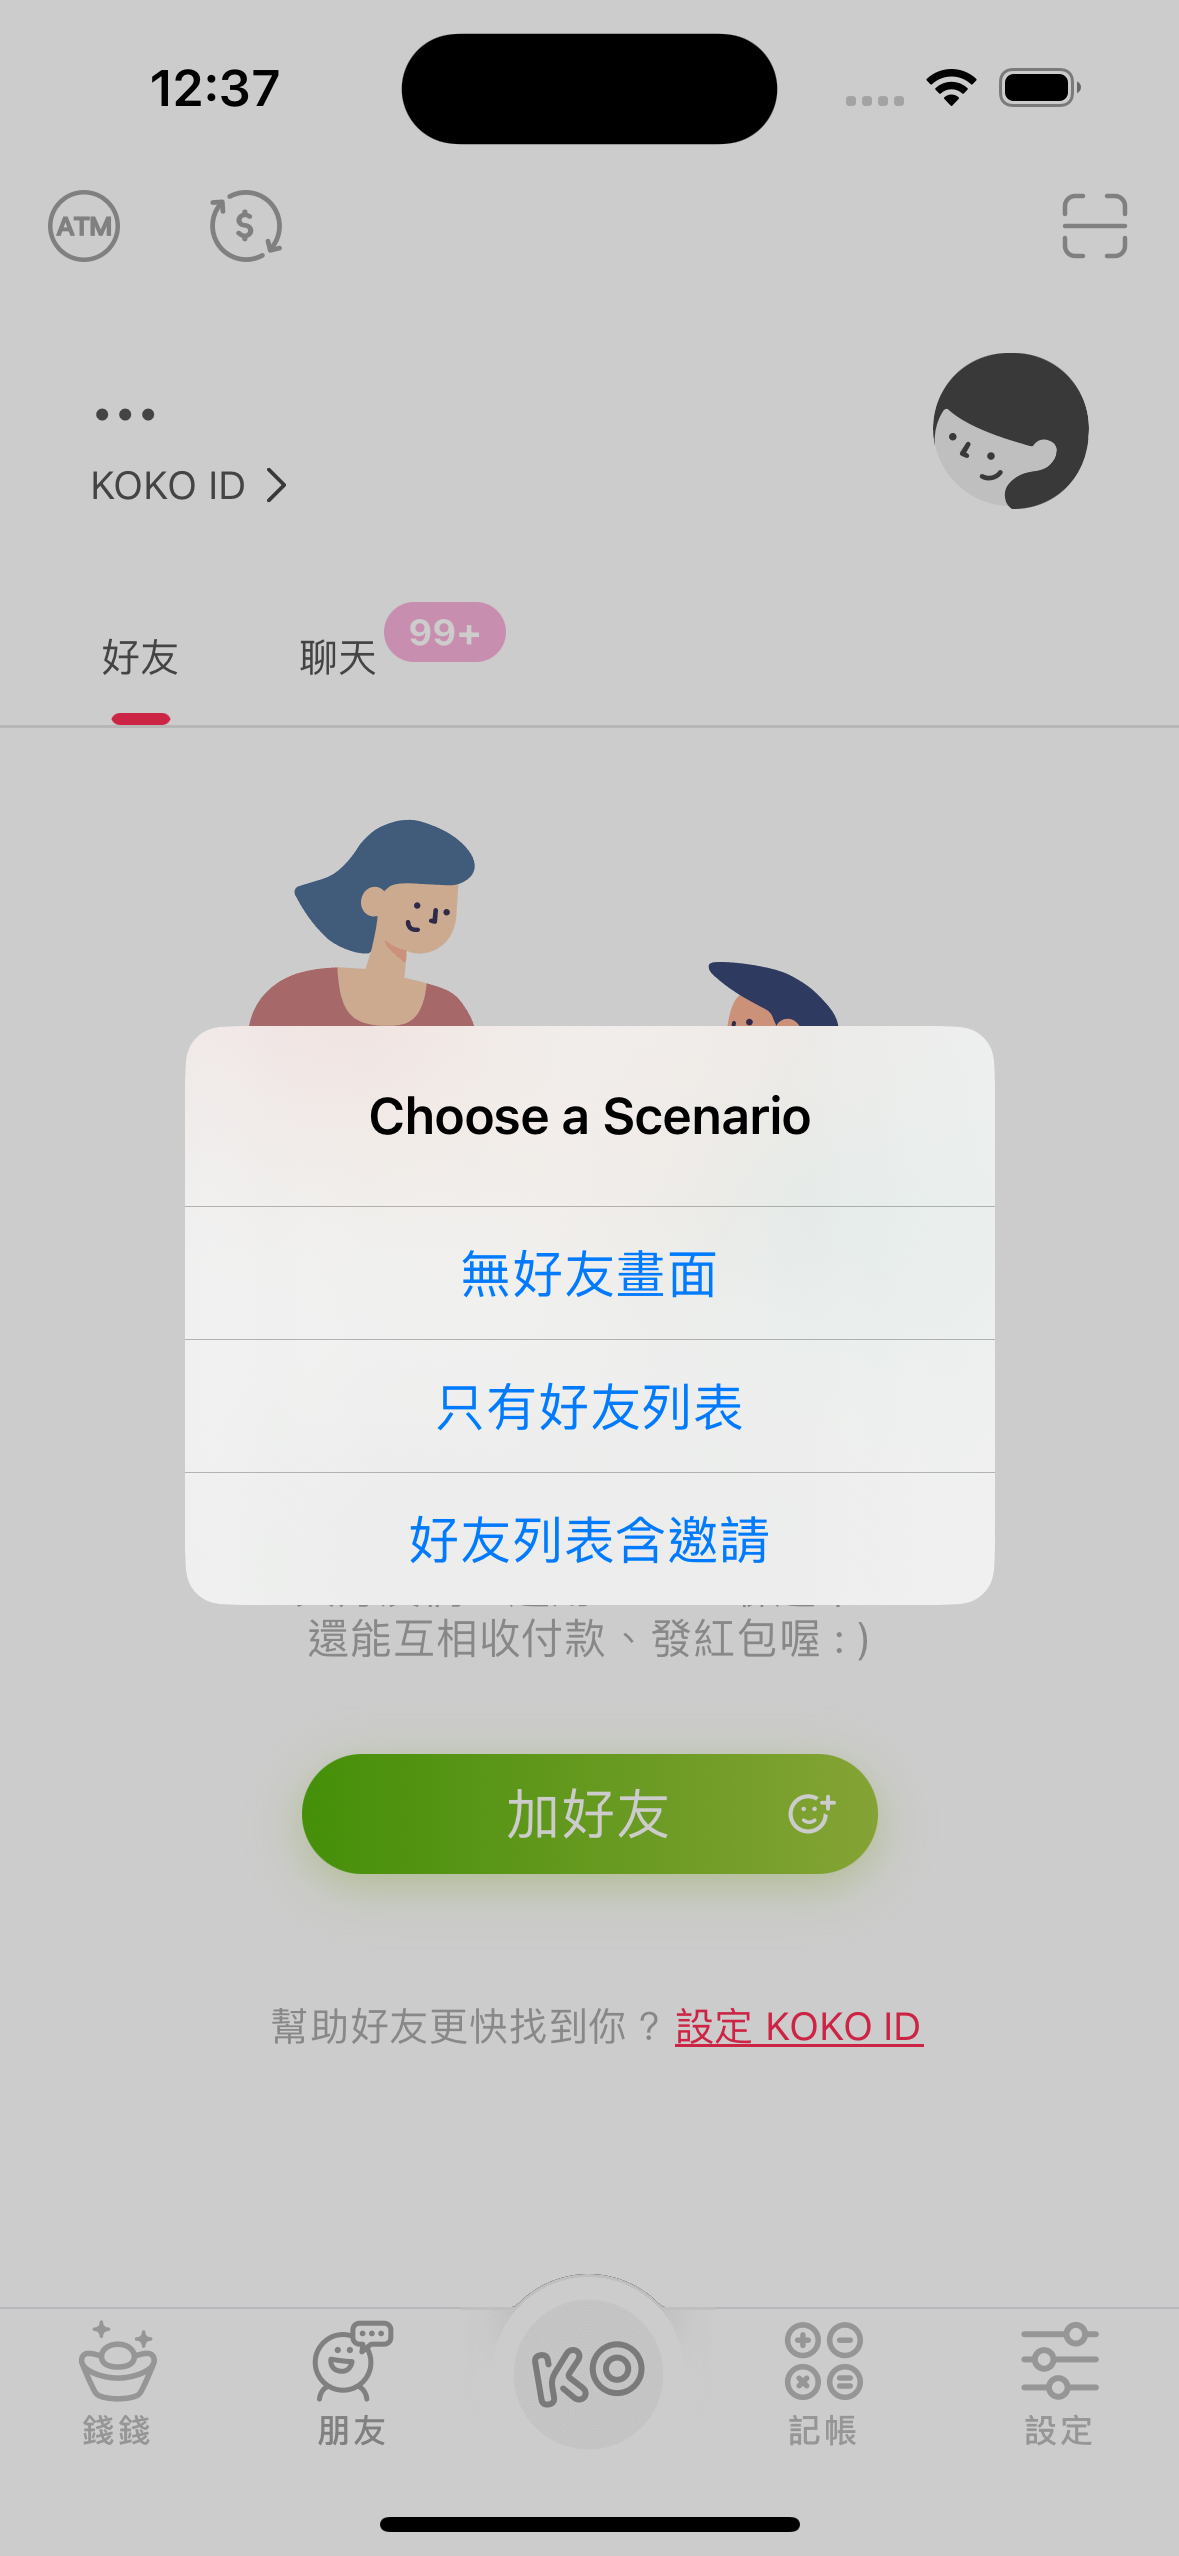
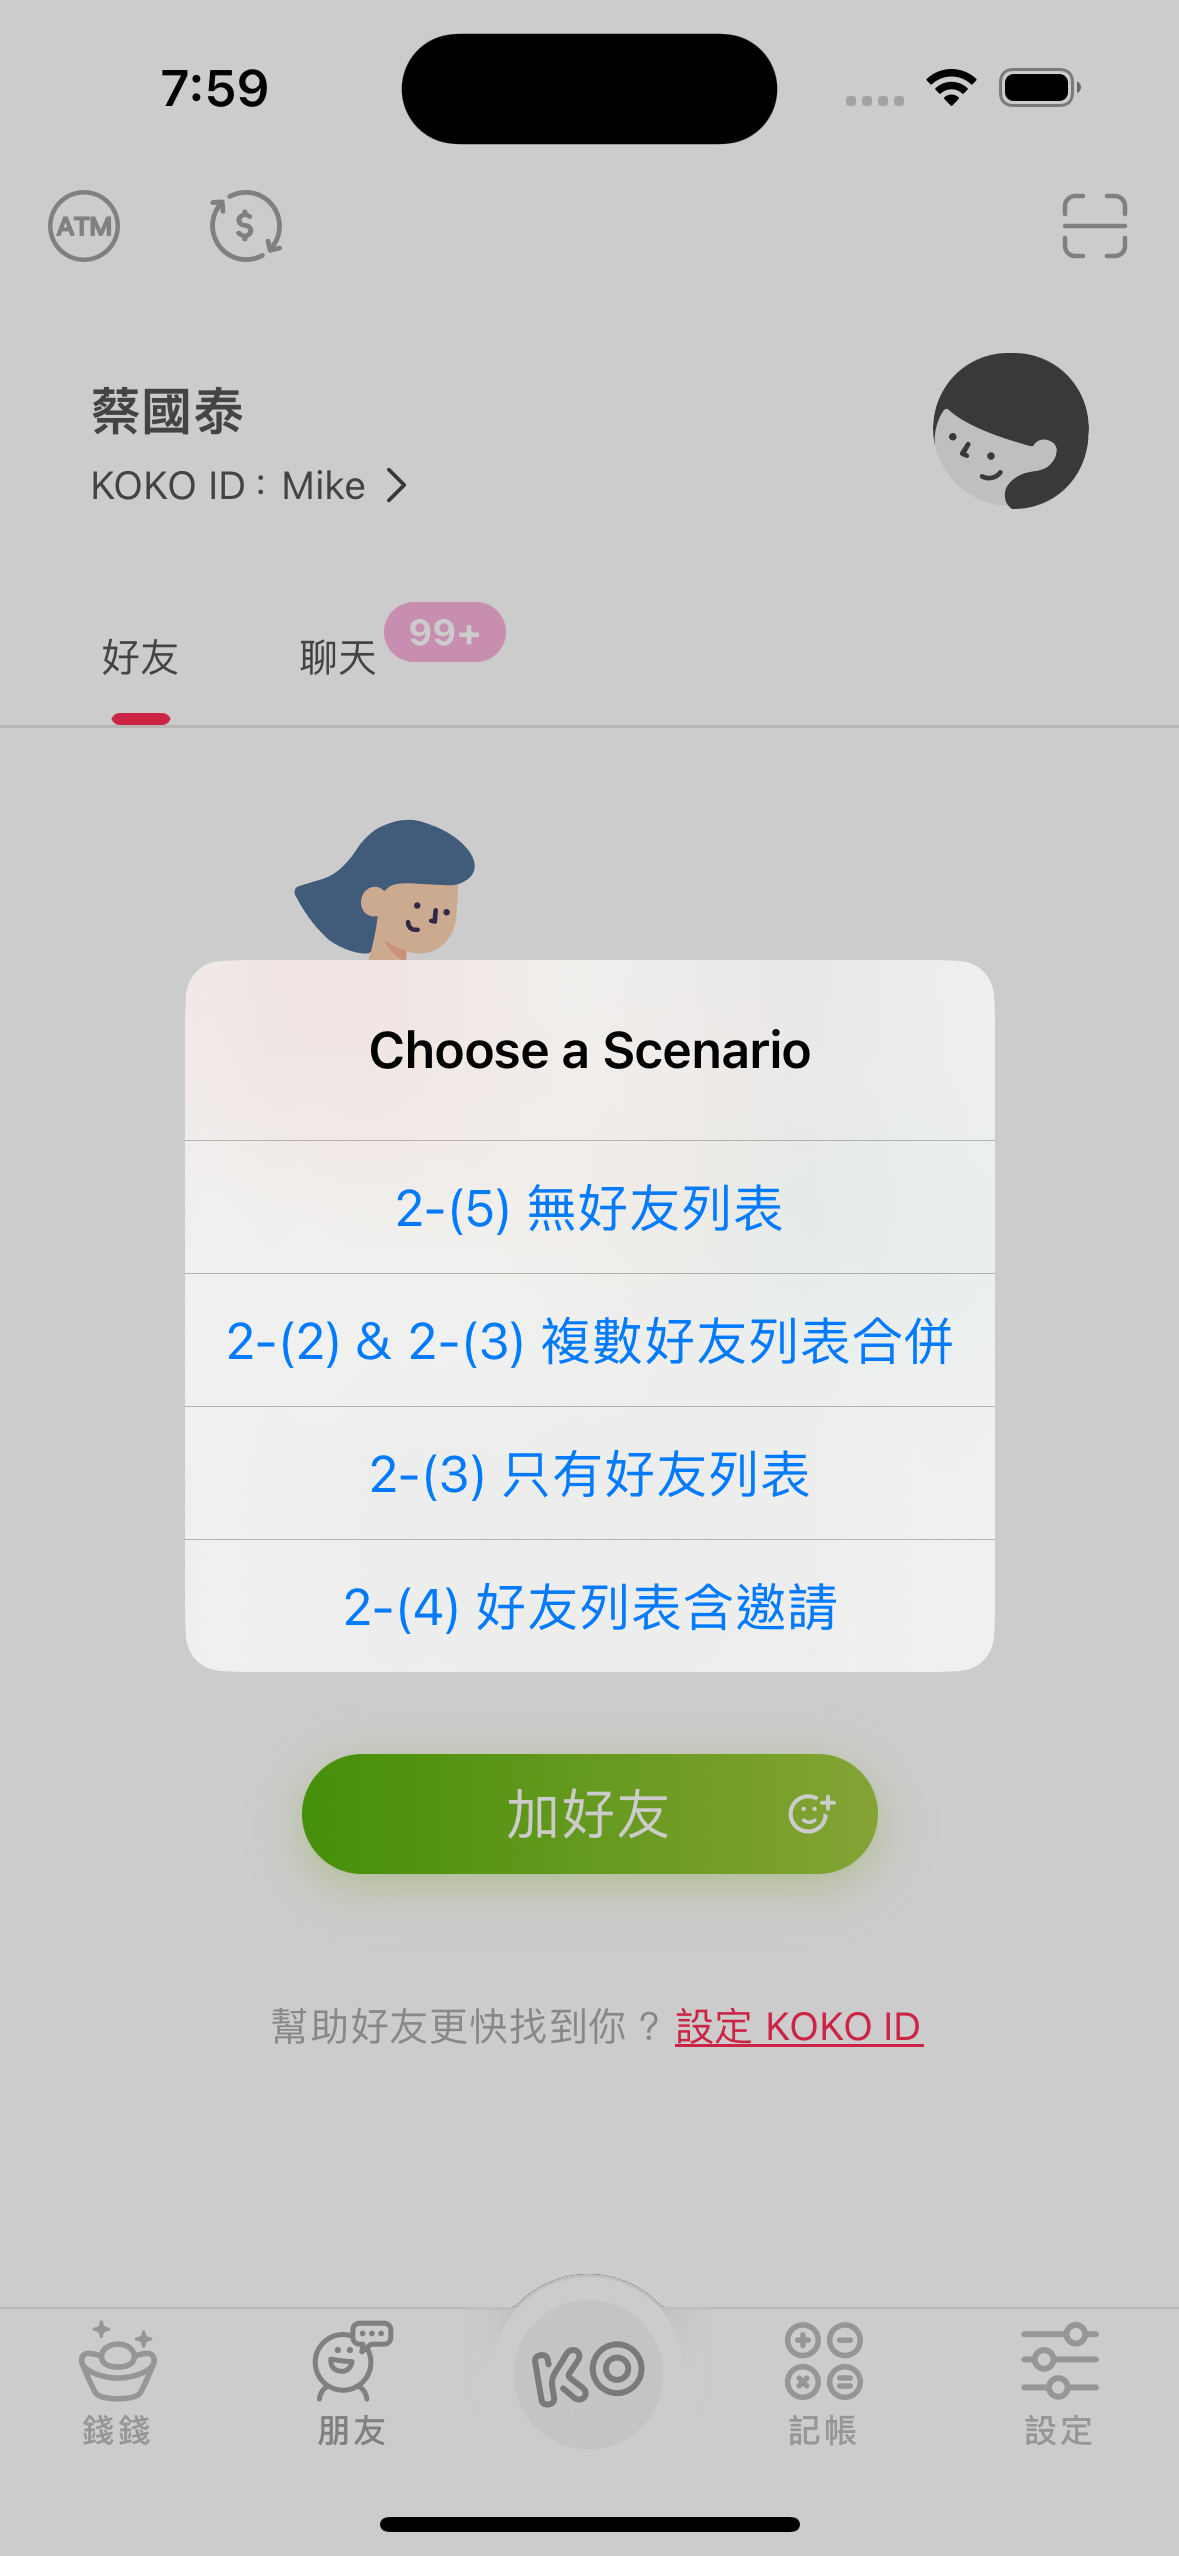
update README GIF images

diff --git a/README.md b/README.md
@@ -5,7 +5,7 @@ This project implements a friend list management interface using **Swift**, **UI
 It supports three different states of the user interface and handles asynchronous API requests to simulate various friend list scenarios.
 
 <p align="center">
-    <img src="ReadMeImages/cathay-bank-koko-hw3.gif" alt="cathay" width="540">
+    <img src="ReadMeImages/cathay-bank-koko-hw4.gif" alt="cathay" width="540">
 </p>
 
 ## Features
@@ -16,14 +16,23 @@ It supports three different states of the user interface and handles asynchronou
 
 ### API Integration and Simulation
 
+Here are the API data sources used in the app:
+
+- **2-(1) User Data**: `https://dimanyen.github.io/man.json`
+- **2-(2) Friend List 1**: `https://dimanyen.github.io/friend1.json`
+- **2-(3) Friend List 2**: `https://dimanyen.github.io/friend2.json`
+- **2-(4) Friend List with Invitations**: `https://dimanyen.github.io/friend3.json`
+- **2-(5) No Data (Friends/Invitations)**: `https://dimanyen.github.io/friend4.json`
+
+
 The app makes asynchronous API requests to simulate the following scenarios:
 
-1. **No Friends**: Displays when there are no friends in the list. Requests data from the API at `https://dimanyen.github.io/friend4.json` (No data returned for friends or invitations).
+1. **No Friends**: Displays when there are no friends in the list. Requests data from the API at 2-(5) `https://dimanyen.github.io/friend4.json` (No data returned for friends or invitations).
 <p align="center">
     <img src="ReadMeImages/1-1-no-friends.png" alt="No Friends Scenario" width="200">
 </p>
    
-2. **Friend List Merge**: Shows when there are friends. (**Note: The API still returns one invitation. If you don't want to display the invitationCard, please set inviteLimit to 0 in FriendsVC.**) Makes two API requests to:
+2. **Friend List Merge**: Shows when there are friends. (**Note: The API still returns one invitation. If you don't want to display the invitationCard, please set inviteLimit to 0 in FriendsVC.**) Makes two API requests to 2-(2) & 2-(3):
     - `https://dimanyen.github.io/friend1.json`
     - `https://dimanyen.github.io/friend2.json`
    
@@ -34,7 +43,7 @@ The app makes asynchronous API requests to simulate the following scenarios:
     <img src="ReadMeImages/1-2-1-friend-list-merge.png" alt="Friends List Scenario" width="200">
 </p>
 
-3. **Friend List Only**: Shows when there are friends, without invitations. Requests data from the API at:
+3. **Friend List Only**: Shows when there are friends, without invitations. Requests data from the API at 2-(3):
     - `https://dimanyen.github.io/friend2.json`
    
 <p align="center">
@@ -42,7 +51,7 @@ The app makes asynchronous API requests to simulate the following scenarios:
 </p>
 
 
-4. **Friend List with Invitations**: Displays when there are friends and the API returns two invitations. Makes a request to `https://dimanyen.github.io/friend3.json` to simulate a scenario where both friends and invitations are present.
+4. **Friend List with Invitations**: Displays when there are friends and the API returns two invitations. Makes a request to 2-(4) `https://dimanyen.github.io/friend3.json` to simulate a scenario where both friends and invitations are present.
 <p align="center">
     <img src="ReadMeImages/1-3-1-expanded.png" alt="Friends with Invitations Scenario" width="200">
     <img src="ReadMeImages/1-3-2-stacked.png" alt="Friends with Invitations Scenario" width="200">
@@ -69,15 +78,6 @@ The following additional functionalities are included to enhance the user experi
 
 4. **Unit Testing**: Unit tests are included to verify the behavior of API requests and ensure proper data handling.
 
-## API Data Sources
-
-Here are the data sources used in the app:
-
-- **User Data**: `https://dimanyen.github.io/man.json`
-- **Friend List 1**: `https://dimanyen.github.io/friend1.json`
-- **Friend List 2**: `https://dimanyen.github.io/friend2.json`
-- **Friend List with Invitations**: `https://dimanyen.github.io/friend3.json`
-- **No Data (Friends/Invitations)**: `https://dimanyen.github.io/friend4.json`
 
 ---
 
